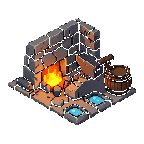
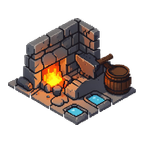
feat(assets): add distinct upgraded level 2 master armory forge sprites

Changed region(s): [[0.0556, 0.1111, 0.9444, 0.8611], [0.1944, 0.25, 0.2778, 0.3056], [0.25, 0.3056, 0.2778, 0.3333]]

diff --git a/src/render/assetDescriptors.ts b/src/render/assetDescriptors.ts
@@ -73,6 +73,7 @@ import buildingClassicMarket1Variant5 from "../resources/buildings/building-clas
 import buildingClassicMarket2 from "../resources/buildings/building-classic-market-2.png?url";
 import buildingClassicMine1 from "../resources/buildings/building-classic-mine-1.png?url";
 import buildingClassicSmithy1 from "../resources/buildings/building-classic-smithy-1.png?url";
+import buildingClassicSmithy2 from "../resources/buildings/building-classic-smithy-2.png?url";
 import buildingClassicTower1 from "../resources/buildings/building-classic-tower-1.png?url";
 import buildingClassicTower2 from "../resources/buildings/building-classic-tower-2.png?url";
 import buildingClassicTownHall1 from "../resources/buildings/building-classic-townHall-1.png?url";
@@ -241,6 +242,7 @@ export const BUILDING_SPRITES: Record<string, string> = {
   "classic.market.2": buildingClassicMarket2,
   "classic.mine.1": buildingClassicMine1,
   "classic.smithy.1": buildingClassicSmithy1,
+  "classic.smithy.2": buildingClassicSmithy2,
   "classic.tower.1": buildingClassicTower1,
   "classic.tower.2": buildingClassicTower2,
   "classic.townHall.1": buildingClassicTownHall1,
@@ -567,6 +569,7 @@ const BUILDING_ANCHOR_OVERRIDES: Record<string, number> = {
   "building.classic.market.2": 0,
   "building.classic.mine.1": 0,
   "building.classic.smithy.1": 4,
+  "building.classic.smithy.2": 4,
   "building.classic.tower.1": 5,
   "building.classic.tower.2": 2,
   "building.classic.townHall.1": 4,

diff --git a/packages/engine/src/styleResolver.ts b/packages/engine/src/styleResolver.ts
@@ -18,6 +18,7 @@ export const BUILDING_SPRITE_KEYS: readonly string[] = [
   "classic.market.2",
   "classic.mine.1",
   "classic.smithy.1",
+  "classic.smithy.2",
   "classic.tower.1",
   "classic.tower.2",
   "classic.townHall.1",
